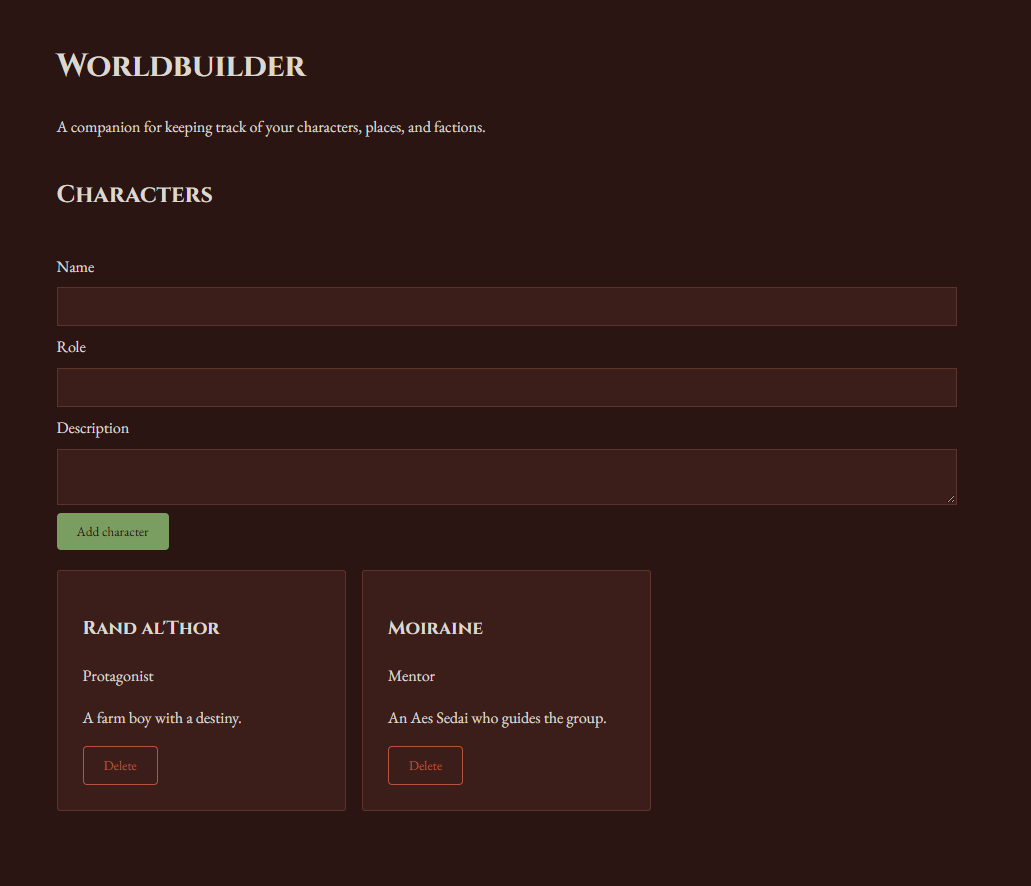
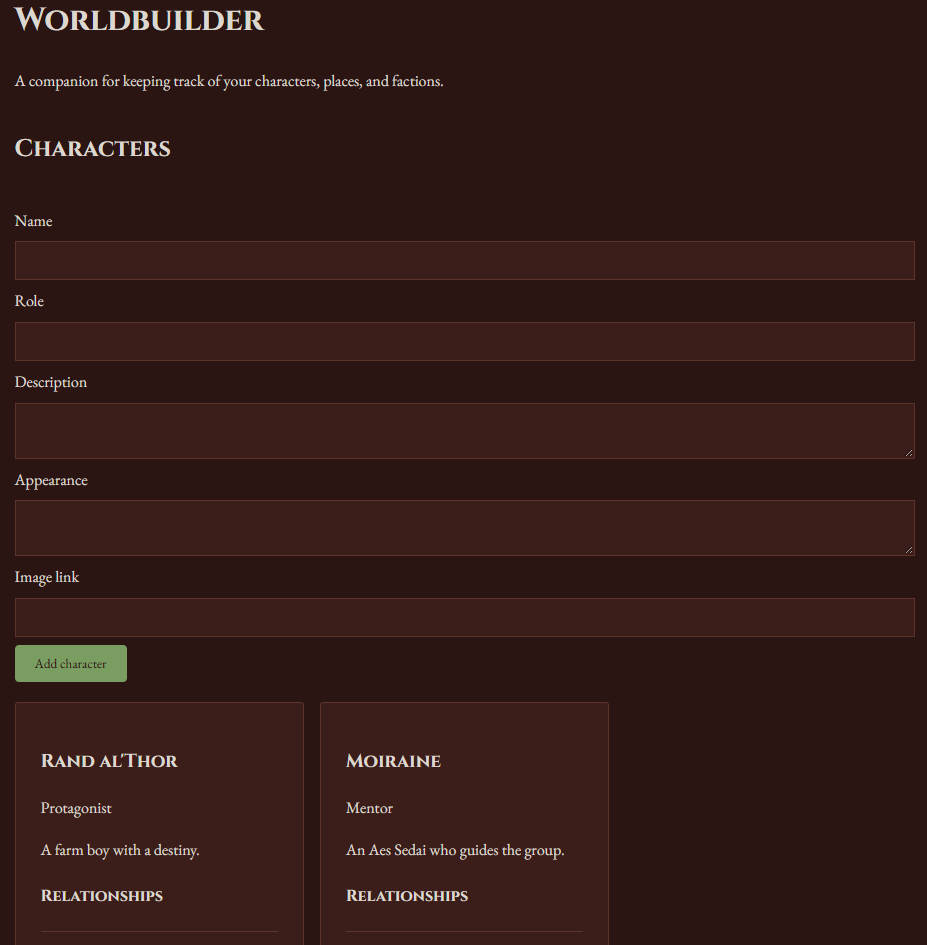
Update README to reflect terminology changes from 'locations' to 'places'; enhance feature descriptions and learning outcomes related to React, including relationship modeling and data transformation techniques. Update screenshot to reflect recent UI changes.

diff --git a/README.md b/README.md
@@ -1,5 +1,5 @@
 # Worldbuilder App
-This app allows authors to enter and keep track of information about their characters, locations and factions.
+This app allows authors to enter and keep track of information about their characters, places and factions.
 
 [Live site](https://j-winchester94.github.io/worldbuilder/)
 
@@ -7,10 +7,15 @@ This app allows authors to enter and keep track of information about their chara
 
 ## Features
 - Uses localStorage to save entries that the user inputs
-- Allows users to add new characters, locations, and factions using a form.
+- Allows users to add new characters, places, and factions using a form.
 - Page updates when users add information
 - Asks users to confirm if they wish to delete an entry
 - Edit any entry in place, with Save and Cancel options
+- Visual details for every entry, with section specific labels, Appearance, Landscape, Symbols & Colors
+- Images on entries by link
+- Relationships between entries: characters, places, and factions in any combination with custom labels like "born in" or "mentor of"
+- Adding and removing relationships right from the cards
+- Deleting an entry also removes its relationships, with a confirmation that says how many will be lost
 
 
 ## Built with
@@ -23,11 +28,20 @@ This app allows authors to enter and keep track of information about their chara
 ## What I learned 
 - How to use components and props with useState and useEffect to create forms and save information to local storage
 - How to refactor repeated code into a shared component, and controlled forms
-- How React's one-way data flow worls
+- How React's one-way data flow works
 - Why props are read-only
-- Why key and id server different purposes
+- Why key and id serve different purposes
+- How to model relationships as a separate list of links, the way databases handle many-to-many connections
+- How to look up entries by type and id with find, and an object used as a lookup table
+- How to chain filter and map to transform data
+- How to write reusable helper functions, so logic lives in one place
+- Avoiding stale state when one form choice depends on another
+- Boolean logic, like negating conditions correctly
+- Using Git branches and pull requests to build features safely
 
 ## Future improvements
-- Links that automatically update within a character bio that allows users to pull up relevant information. (Ex. character is from city)
 - A map creator and/or uploader that allows users to see their world and bring up relevant information when clicked on or hovered over
 - A feature that allows users to create a plot grid to help them map out their stories
+- AI generated art to help authors visualize their work
+- Exporting and importing a world as a backup
+- An interactive timeline that details the history and relationships of an entry
